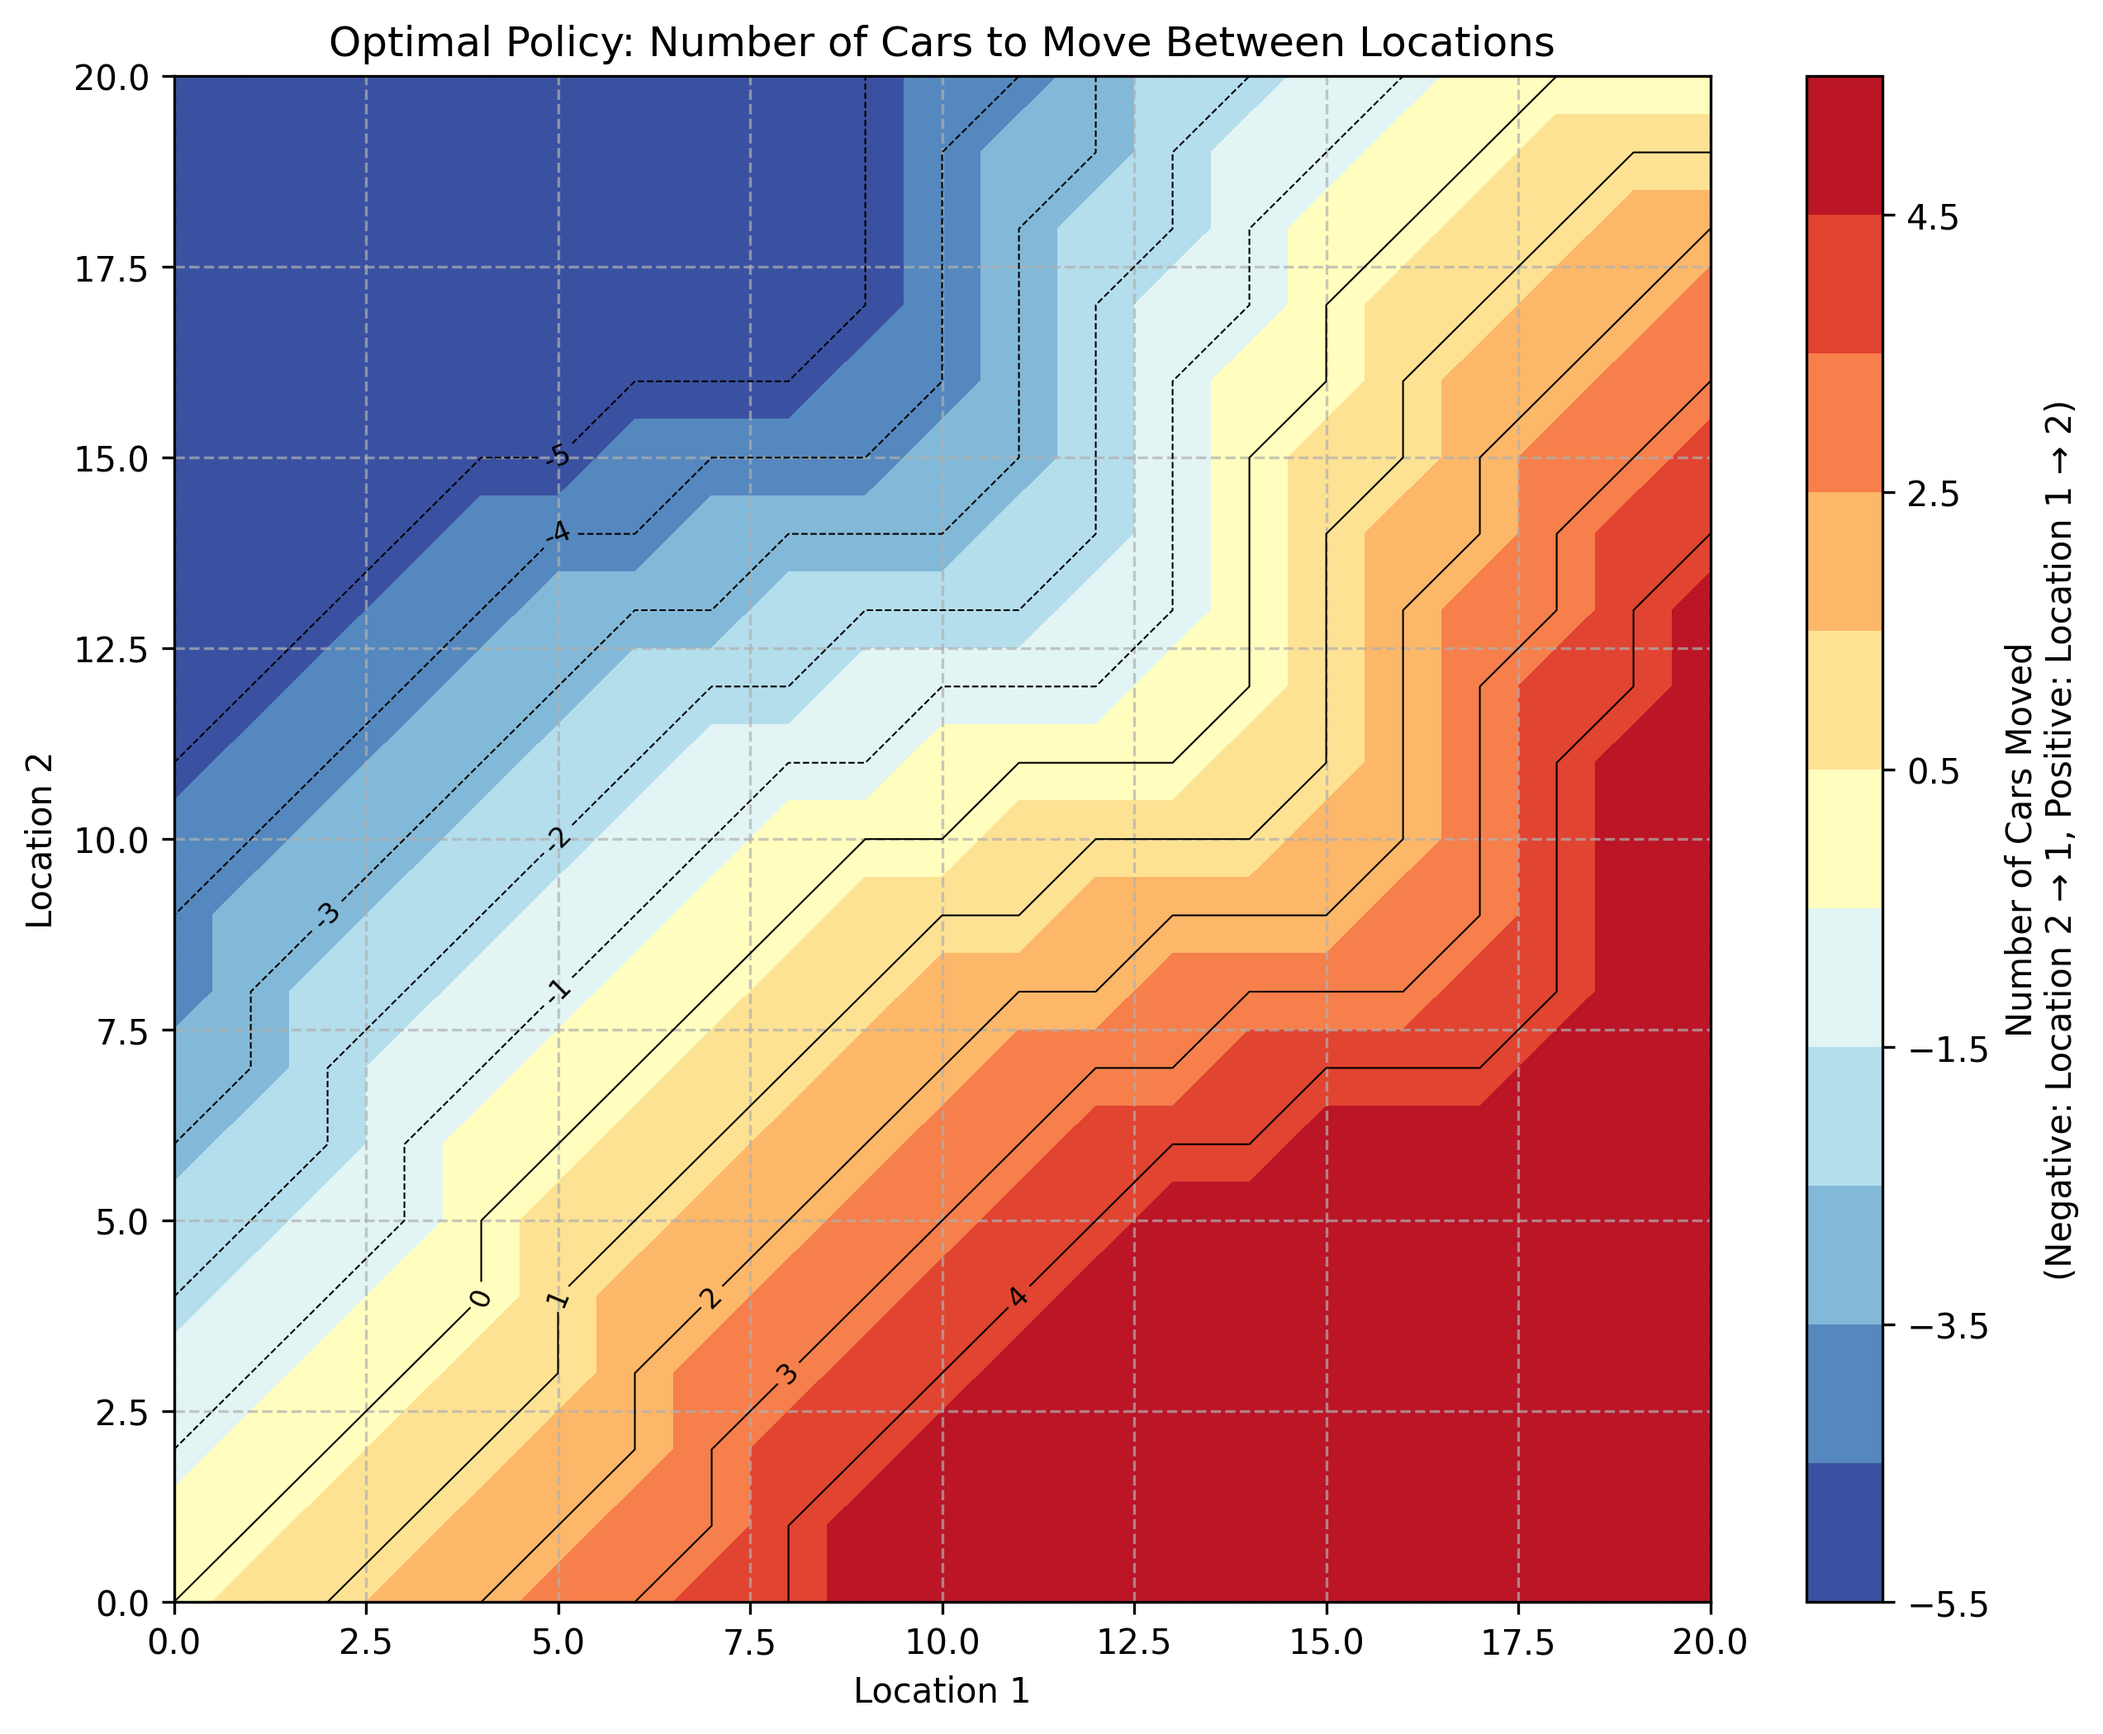
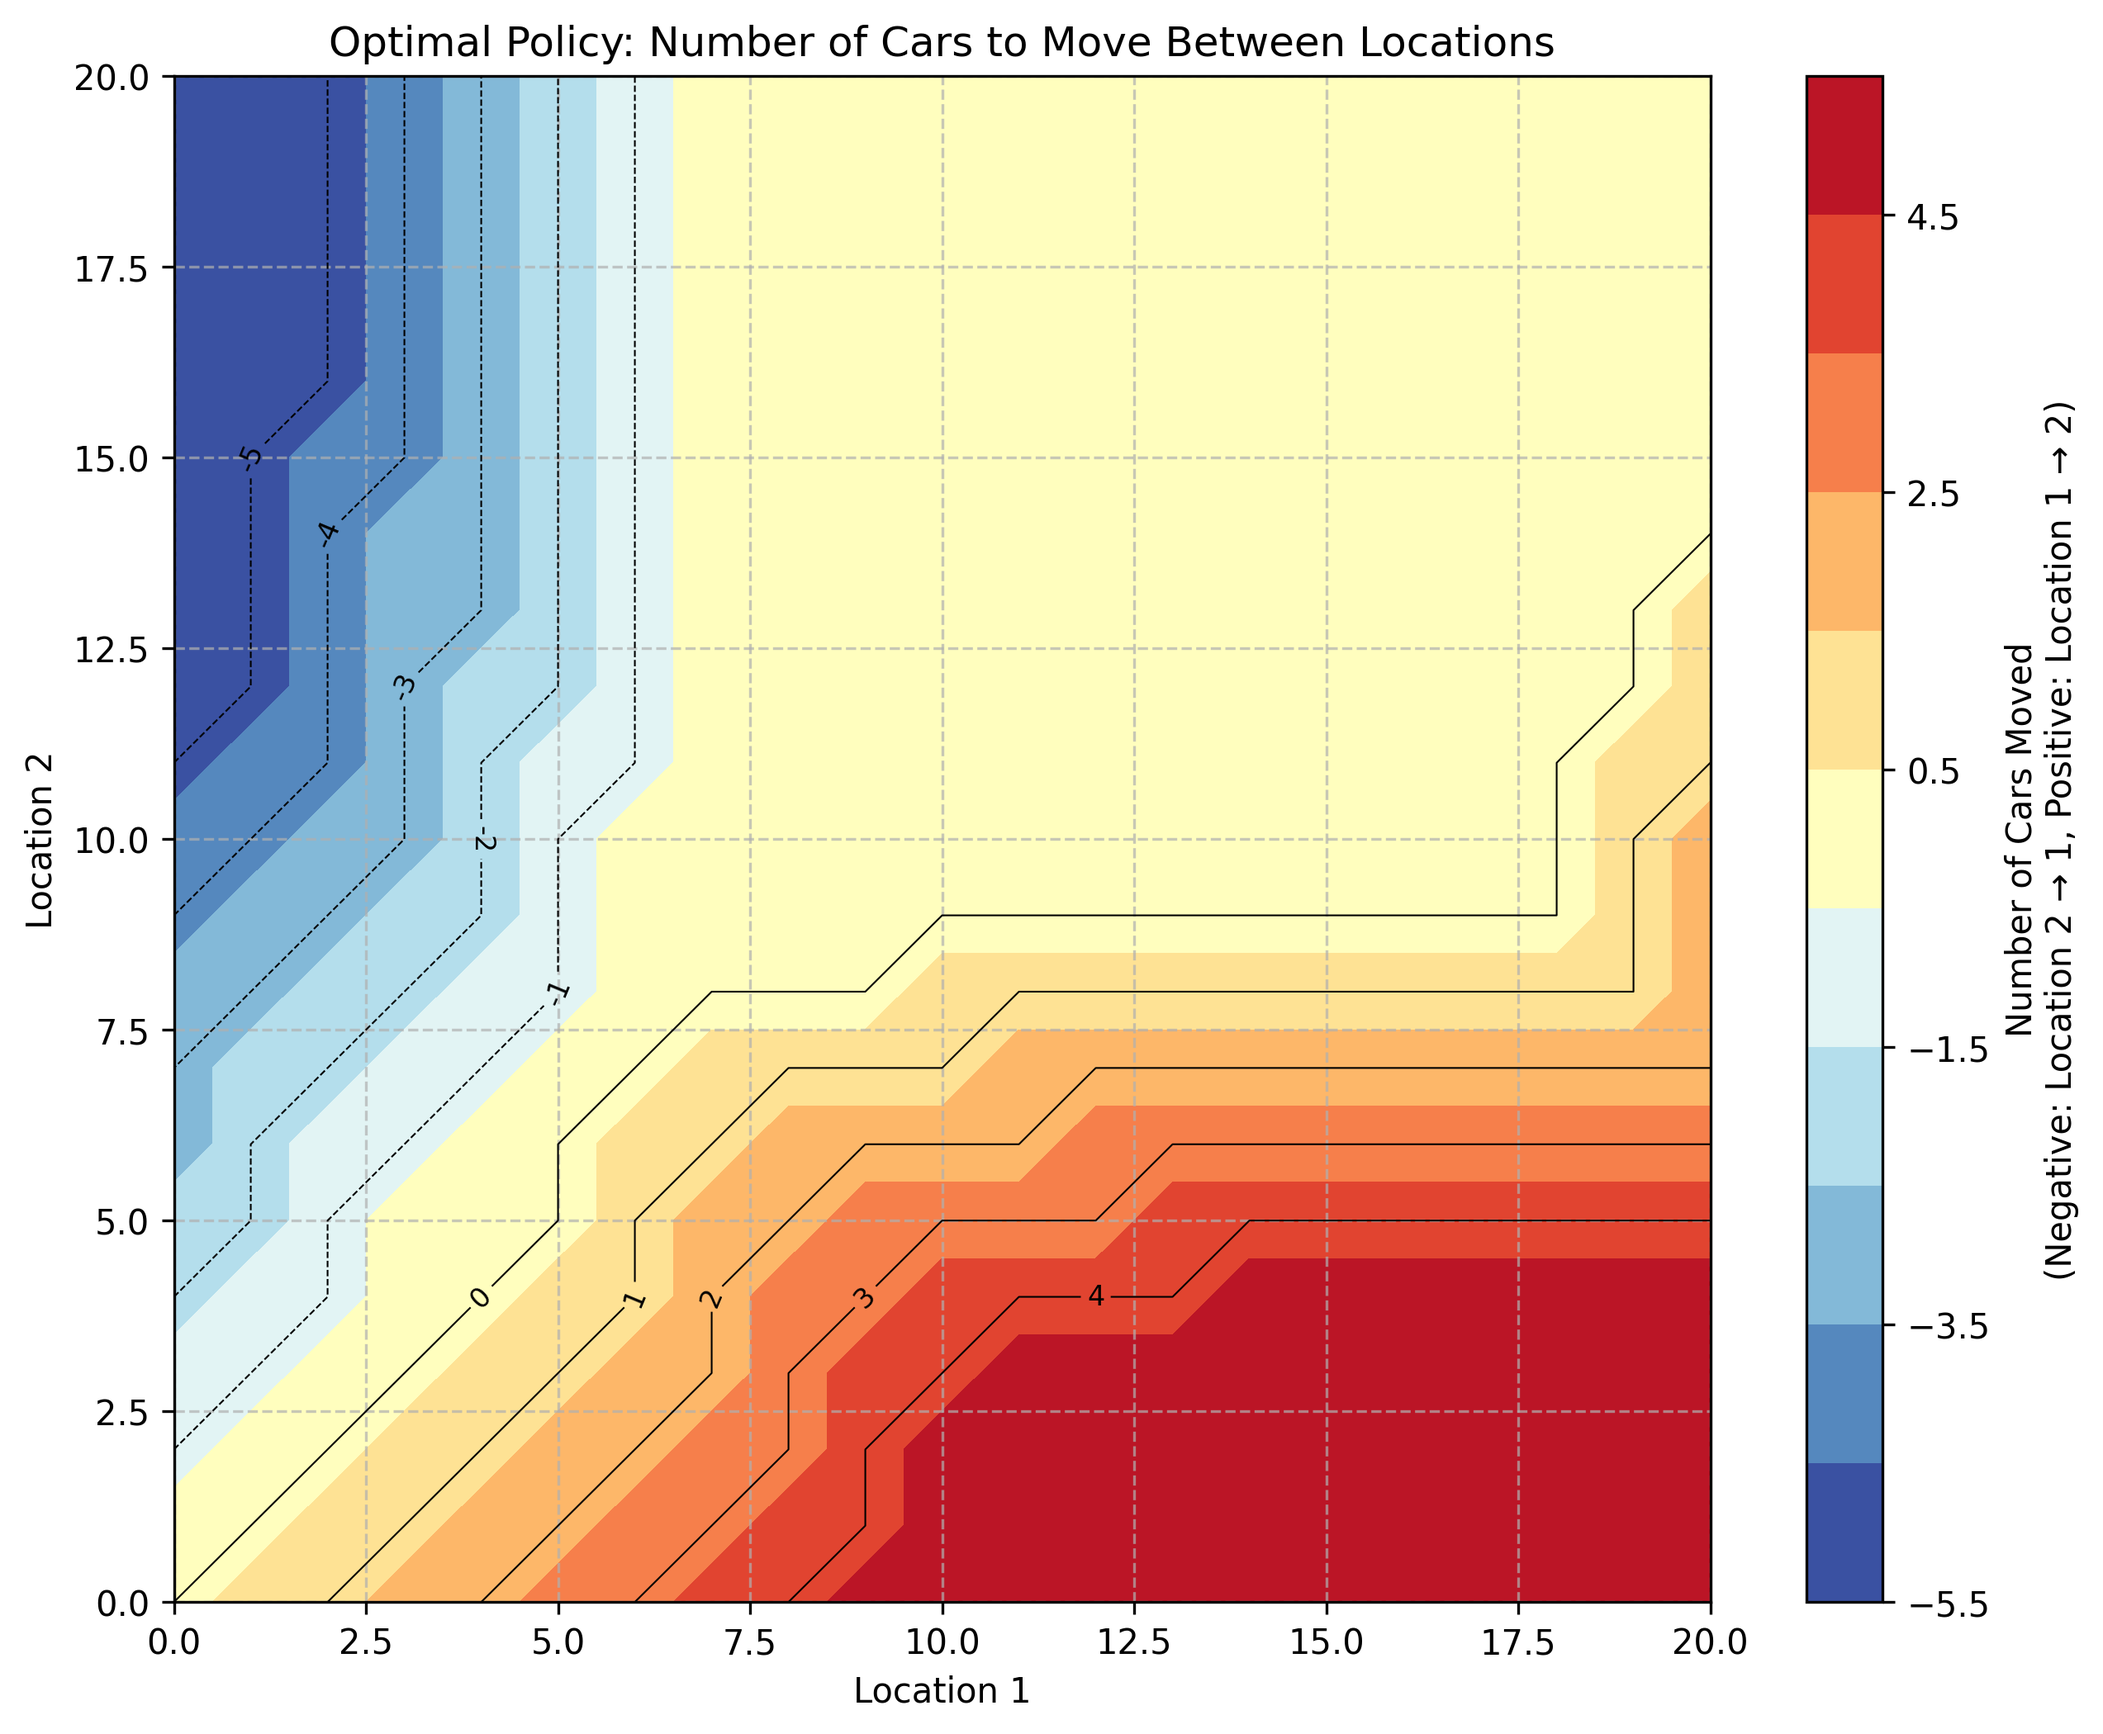
Make env into keyword args

diff --git a/car_rental/policy_iteration.py b/car_rental/policy_iteration.py
@@ -2,6 +2,8 @@ import numpy as np
 from car_rental.environment import CarRentalEnv
 from tqdm import tqdm
 
+from car_rental.plot_policy import save_policy_plot
+
 
 class PolicyIterationAgent:
     def __init__(self, env, discount_factor=0.9):
@@ -43,7 +45,7 @@ class PolicyIterationAgent:
             if delta < threshold:
                 print(f"Delta converged: {delta}")
                 break
-            
+
             print(f"Iteration {iteration} complete")
 
     def improve_policy(self):
@@ -118,7 +120,7 @@ class PolicyIterationAgent:
 
 if __name__ == "__main__":
     # Initialize the environment
-    env = CarRentalEnv()
+    env = CarRentalEnv(move_cost=2)
 
     # Initialize the RL agent
     agent = PolicyIterationAgent(env)
@@ -133,3 +135,4 @@ if __name__ == "__main__":
 
     # Save the policy
     agent.save_policy("car_rental_policy.npy")
+    save_policy_plot(agent.policy)

diff --git a/car_rental/environment.py b/car_rental/environment.py
@@ -5,13 +5,13 @@ from car_rental.cache import TransitionCache, poisson_prob
 
 
 class CarRentalEnv:
-    def __init__(self):
-        self.max_cars = 20
-        self.max_move = 5
-        self.rental_reward = 10
-        self.move_cost = 0
-        self.rental_rates = [3, 4]  # Poisson parameters for rentals.
-        self.return_rates = [3, 2]  # Poisson parameters for returns.
+    def __init__(self, max_cars=20, max_move=5, rental_reward=10, move_cost=0, rental_rates=[3, 4], return_rates=[3, 2]):
+        self.max_cars = max_cars
+        self.max_move = max_move
+        self.rental_reward = rental_reward
+        self.move_cost = move_cost
+        self.rental_rates = rental_rates  # Poisson parameters for rentals.
+        self.return_rates = return_rates  # Poisson parameters for returns.
         self._transition_cache = TransitionCache()
 
     def step(self, state, action):
